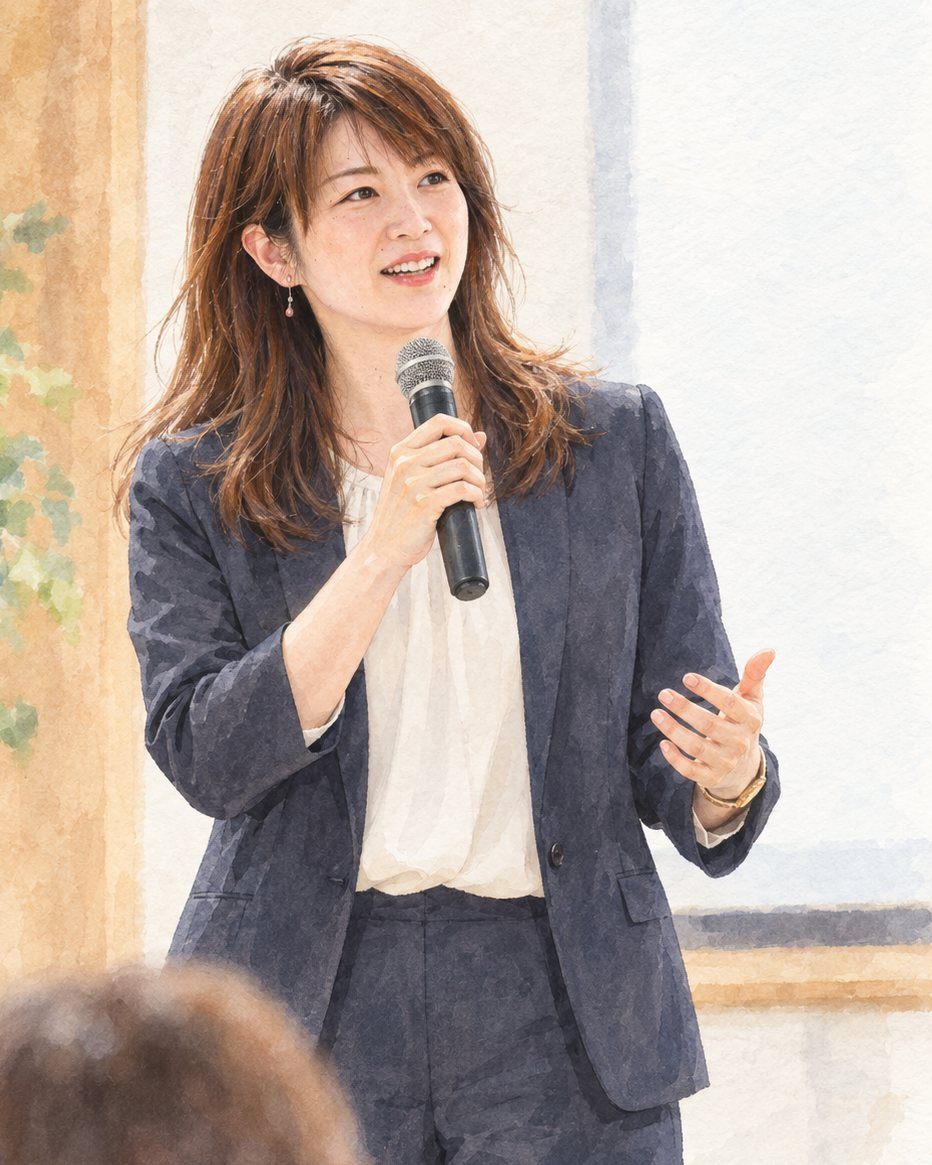
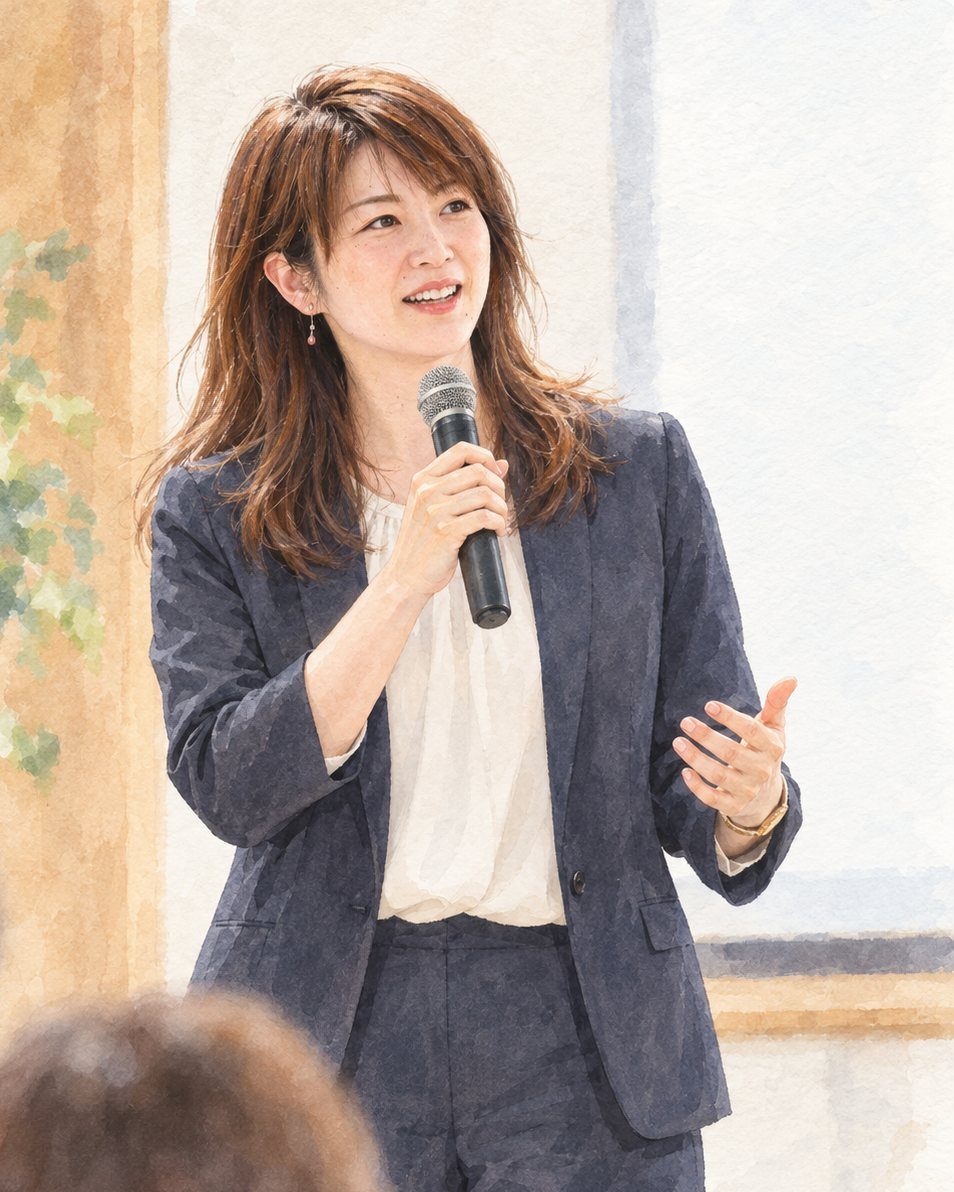
Add files via upload

Changed region(s): [[0.0, 0.0, 1.0, 1.0], [0.6534, 0.927, 0.6845, 0.9579], [0.2489, 0.9888, 0.28, 1.0]]

diff --git a/index.html b/index.html
@@ -146,7 +146,7 @@
     }
     .hero-media { position: relative; min-height: 100vh; }
     .hero-media .ph, .hero-media img { width: 100%; height: 100%; min-height: 100vh; object-fit: cover; }
-    #hero .ph-img { object-position: 50% 14%; }
+    #hero .ph-img { object-position: 50% 12%; }
     .hero-media-tag {
       position: absolute; left: -22px; bottom: 66px; z-index: 2;
       background: var(--card); color: var(--ink); padding: 9px 18px; border-radius: 999px;
@@ -154,8 +154,8 @@
       font-size: 12.5px; letter-spacing: 0.06em; transform: rotate(-3deg);
     }
     h1 {
-      font-size: clamp(30px, 5vw, 56px); font-weight: 700; color: var(--ink);
-      line-height: 1.42; letter-spacing: 0.02em; margin-bottom: 28px;
+      font-size: clamp(25px, 4vw, 44px); font-weight: 700; color: var(--ink);
+      line-height: 1.5; letter-spacing: 0.01em; margin-bottom: 28px;
     }
     h1 .accent { color: var(--accent); }
     /* 隙: メインコピー下の、手書き風のゆれた下線 */
@@ -201,9 +201,10 @@
     }
     /* 隙: 2番目のカードだけ少し下げて、整いすぎを外す */
     .flow-step:nth-child(2) { transform: translateY(26px); }
-    .flow-ill { margin-bottom: 20px; }
-    .flow-ill svg { width: 84px; height: 84px; display: block; }
-    .flow-no { font-family: 'Zen Maru Gothic', sans-serif; font-weight: 700; font-size: 13px; letter-spacing: 0.12em; color: var(--accent); display: block; margin-bottom: 8px; }
+    .flow-no { font-family: 'Zen Maru Gothic', sans-serif; font-weight: 700; font-size: 13px; letter-spacing: 0.12em; color: var(--accent); display: block; margin-bottom: 12px; }
+    .flow-head { display: flex; align-items: center; gap: 14px; margin-bottom: 12px; }
+    .flow-ill { flex: 0 0 auto; }
+    .flow-ill svg { width: 50px; height: 50px; display: block; }
     .flow-num {
       font-family: 'Zen Maru Gothic', sans-serif; font-weight: 700; font-size: 15px;
       width: 40px; height: 40px; border-radius: 50%;
@@ -211,14 +212,14 @@
       display: flex; align-items: center; justify-content: center; margin-bottom: 20px;
       transform: rotate(-4deg);
     }
-    .flow-title { font-size: 19px; font-weight: 700; color: var(--ink); margin-bottom: 12px; letter-spacing: 0.03em; }
+    .flow-title { font-size: 19px; font-weight: 700; color: var(--ink); margin-bottom: 0; letter-spacing: 0.03em; }
     .flow-text { font-size: 14px; line-height: 1.95; color: var(--ink-2); }
     .flow-arrow { display: none; }
 
     /* ===== PHOTO BAND（横長ビジュアルの抑揚）===== */
     .photo-band { padding: 0; position: relative; height: 48vh; min-height: 320px; overflow: hidden; }
     .photo-band .ph, .photo-band img { width: 100%; height: 100%; object-fit: cover; }
-    .photo-band::after { content: ''; position: absolute; inset: 0; background: linear-gradient(90deg, rgba(35,32,27,0.28), rgba(35,32,27,0) 55%); pointer-events: none; }
+    .photo-band::after { content: none; }
     .band-cap { position: absolute; left: 8%; bottom: 44px; z-index: 2; }
     .band-cap p { display: inline-block; background: rgba(35,32,27,0.55); color: #fff; padding: 12px 22px; border-radius: 999px; font-size: clamp(16px, 2vw, 24px); font-weight: 700; letter-spacing: 0.03em; }
 
@@ -292,7 +293,7 @@
     .ig-card__inner { display: flex; align-items: center; gap: 18px; background: #fff; border-radius: 15px; padding: 20px 24px; width: 100%; }
     .ig-avatar { flex: 0 0 auto; width: 54px; height: 54px; border-radius: 50%; background: var(--accent-wash); display: flex; align-items: center; justify-content: center; }
     .ig-card__body { flex: 1 1 auto; display: flex; flex-direction: column; }
-    .ig-card__name { font-size: 16px; font-weight: 700; line-height: 1.4; color: var(--ink); }
+    .ig-card__name { font-size: 16px; font-weight: 700; line-height: 1.4; color: var(--ink); white-space: nowrap; }
     .ig-card__handle { font-size: 13px; letter-spacing: .03em; color: var(--muted); }
     .ig-card__btn { flex: 0 0 auto; font-size: 12.5px; letter-spacing: .04em; color: #fff; background: linear-gradient(45deg, #F58529, #DD2A7B 50%, #8134AF 80%, #515BD4); border-radius: 999px; padding: 8px 15px; white-space: nowrap; }
 
@@ -362,6 +363,9 @@
     .footer-links a:hover { color: #fff; }
     .copyright { text-align: center; font-size: 11.5px; letter-spacing: 0.06em; padding-top: 28px; border-top: 1px solid rgba(247,242,232,0.12); color: rgba(247,242,232,0.35); }
 
+    /* 日本語の行末で最後の一文字だけが次行に落ちるのを抑制 */
+    .lead, .stance-text, .flow-text, .svc-desc, .about-text, .hero-sub, .video-lead, .form-note, .want-item { text-wrap: pretty; }
+
     /* ===== FADE（動きは小さく静かに）===== */
     .fade { opacity: 0; transform: translateY(16px); transition: opacity .7s ease, transform .7s ease; }
     .fade.on { opacity: 1; transform: none; }
@@ -386,8 +390,8 @@
       .hero-left { padding: 104px 22px 36px; }
       .hero-left::before { display: none; }
       .hero-media { min-height: 0; order: -1; }
-      .hero-media .ph, .hero-media img { min-height: 0; height: 54vh; }
-      .hero-media-tag { left: 14px; bottom: 16px; }
+      .hero-media .ph, .hero-media img { min-height: 0; height: 52vh; }
+      #hero .ph-img { object-position: 50% 6%; }
       .ww-top { grid-template-columns: 1fr; gap: 24px; }
       .ww-media .ph, .ww-media img { aspect-ratio: 16/10; }
       .photo-band { height: 40vh; min-height: 240px; }
@@ -398,6 +402,8 @@
       .svc-row:nth-child(even) .svc-media { order: 0; }
       .svc-media .ph, .svc-media img { aspect-ratio: 16/10; }
       .mc-works { grid-template-columns: 1fr; }
+      .ig-card__inner { flex-wrap: wrap; }
+      .ig-card__btn { margin-left: auto; }
       .panel { padding: 26px 22px; }
       .media-block { grid-template-columns: 1fr; gap: 26px; }
       .video-grid { grid-template-columns: 1fr; gap: 22px; }
@@ -462,7 +468,6 @@
       <img class="ph-img" src="hero.jpg" alt="登壇してマイクを持ち、聴衆に語りかける様子" onerror="this.style.display='none'">
       <span>メインビジュアル</span>
     </figure>
-    <span class="hero-media-tag">現場にて。</span>
   </div>
 </section>
 
@@ -483,7 +488,6 @@
           <img class="ph-img" src="ww.jpg" alt="テーブルを囲んで対話する打ち合わせの様子" onerror="this.style.display='none'">
           <span>打ち合わせ・対話</span>
         </figure>
-        <span class="ww-media-tag">まず、聴く。</span>
       </div>
     </div>
     <div class="want-list">
@@ -516,42 +520,48 @@
     </div>
     <div class="flow fade">
       <div class="flow-step">
-        <div class="flow-ill">
-          <svg viewBox="0 0 88 88" fill="none" xmlns="http://www.w3.org/2000/svg">
-            <circle cx="37" cy="37" r="21" fill="#FAEDE7" stroke="#CF4A32" stroke-width="2.4"/>
-            <line x1="52" y1="52" x2="72" y2="72" stroke="#CF4A32" stroke-width="2.6" stroke-linecap="round"/>
-            <path d="M37 27l2.8 6.8L46.5 37l-6.7 3.2L37 47l-2.8-6.8L27.5 37l6.7-3.2z" fill="#CF4A32"/>
-          </svg>
-        </div>
         <span class="flow-no maru">01</span>
-        <h3 class="flow-title">見つける</h3>
+        <div class="flow-head">
+          <div class="flow-ill">
+            <svg viewBox="0 0 88 88" fill="none" xmlns="http://www.w3.org/2000/svg">
+              <circle cx="37" cy="37" r="21" fill="#FAEDE7" stroke="#CF4A32" stroke-width="2.4"/>
+              <line x1="52" y1="52" x2="72" y2="72" stroke="#CF4A32" stroke-width="2.6" stroke-linecap="round"/>
+              <path d="M37 27l2.8 6.8L46.5 37l-6.7 3.2L37 47l-2.8-6.8L27.5 37l6.7-3.2z" fill="#CF4A32"/>
+            </svg>
+          </div>
+          <h3 class="flow-title">見つける</h3>
+        </div>
         <p class="flow-text">対話を重ね、人や企業がすでに持っている魅力・経験・強みを掘り起こします。</p>
       </div>
       <div class="flow-step">
-        <div class="flow-ill">
-          <svg viewBox="0 0 88 88" fill="none" xmlns="http://www.w3.org/2000/svg">
-            <path d="M14 20h60a7 7 0 017 7v22a7 7 0 01-7 7H41l-15 13V56H14a7 7 0 01-7-7V27a7 7 0 017-7z" fill="#FAEDE7" stroke="#CF4A32" stroke-width="2.4" stroke-linejoin="round"/>
-            <line x1="22" y1="33" x2="62" y2="33" stroke="#CF4A32" stroke-width="2.4" stroke-linecap="round"/>
-            <line x1="22" y1="43" x2="50" y2="43" stroke="#CF4A32" stroke-width="2.4" stroke-linecap="round"/>
-          </svg>
-        </div>
         <span class="flow-no maru">02</span>
-        <h3 class="flow-title">伝わる形にする</h3>
+        <div class="flow-head">
+          <div class="flow-ill">
+            <svg viewBox="0 0 88 88" fill="none" xmlns="http://www.w3.org/2000/svg">
+              <path d="M14 20h60a7 7 0 017 7v22a7 7 0 01-7 7H41l-15 13V56H14a7 7 0 01-7-7V27a7 7 0 017-7z" fill="#FAEDE7" stroke="#CF4A32" stroke-width="2.4" stroke-linejoin="round"/>
+              <line x1="22" y1="33" x2="62" y2="33" stroke="#CF4A32" stroke-width="2.4" stroke-linecap="round"/>
+              <line x1="22" y1="43" x2="50" y2="43" stroke="#CF4A32" stroke-width="2.4" stroke-linecap="round"/>
+            </svg>
+          </div>
+          <h3 class="flow-title">伝わる形にする</h3>
+        </div>
         <p class="flow-text">言葉、写真、映像、場づくり。その価値に合う方法を選び、相手に届く表現へ整えます。</p>
       </div>
       <div class="flow-step">
-        <div class="flow-ill">
-          <svg viewBox="0 0 88 88" fill="none" xmlns="http://www.w3.org/2000/svg">
-            <line x1="24" y1="28" x2="64" y2="22" stroke="#CF4A32" stroke-width="2.4"/>
-            <line x1="24" y1="28" x2="44" y2="62" stroke="#CF4A32" stroke-width="2.4"/>
-            <line x1="64" y1="22" x2="44" y2="62" stroke="#CF4A32" stroke-width="2.4"/>
-            <circle cx="24" cy="28" r="9" fill="#FAEDE7" stroke="#CF4A32" stroke-width="2.4"/>
-            <circle cx="64" cy="22" r="9" fill="#FAEDE7" stroke="#CF4A32" stroke-width="2.4"/>
-            <circle cx="44" cy="63" r="9" fill="#FAEDE7" stroke="#CF4A32" stroke-width="2.4"/>
-          </svg>
-        </div>
         <span class="flow-no maru">03</span>
-        <h3 class="flow-title">社会とつなぐ</h3>
+        <div class="flow-head">
+          <div class="flow-ill">
+            <svg viewBox="0 0 88 88" fill="none" xmlns="http://www.w3.org/2000/svg">
+              <line x1="24" y1="28" x2="64" y2="22" stroke="#CF4A32" stroke-width="2.4"/>
+              <line x1="24" y1="28" x2="44" y2="62" stroke="#CF4A32" stroke-width="2.4"/>
+              <line x1="64" y1="22" x2="44" y2="62" stroke="#CF4A32" stroke-width="2.4"/>
+              <circle cx="24" cy="28" r="9" fill="#FAEDE7" stroke="#CF4A32" stroke-width="2.4"/>
+              <circle cx="64" cy="22" r="9" fill="#FAEDE7" stroke="#CF4A32" stroke-width="2.4"/>
+              <circle cx="44" cy="63" r="9" fill="#FAEDE7" stroke="#CF4A32" stroke-width="2.4"/>
+            </svg>
+          </div>
+          <h3 class="flow-title">社会とつなぐ</h3>
+        </div>
         <p class="flow-text">発信や運営を続けられる形に整え、人・企業・地域のあいだに新しい接点をつくります。</p>
       </div>
     </div>
@@ -564,7 +574,6 @@
     <img class="ph-img" src="band.jpg" alt="式典で登壇し、聴衆の前で話す様子" onerror="this.style.display='none'">
     <span>現場写真</span>
   </figure>
-  <div class="band-cap"><p>その場に立ち、言葉を届ける。</p></div>
 </section>
 
 <!-- ===== SERVICES ===== -->
@@ -599,7 +608,7 @@
           <div class="svc-head"><span class="svc-no maru">03</span><h3 class="svc-name">事務局・プロジェクト運営</h3></div>
           <p class="svc-desc">関係者との調整や情報整理など、活動が滞りなく進むための実務と対話を支えます。</p>
           <div class="svc-tags"><span class="tag">事務局運営</span><span class="tag">進行管理</span><span class="tag">関係者調整</span></div>
-          <p class="svc-work"><span class="svc-work-label">実績</span><span>奈良綺麗プロジェクト</span></p>
+          <p class="svc-work"><span class="svc-work-label">実績</span><a href="https://nara-beauty.jp/" target="_blank" rel="noopener">奈良綺麗プロジェクト</a></p>
         </div>
       </article>
       <article class="svc-row">
@@ -608,7 +617,7 @@
           <div class="svc-head"><span class="svc-no maru">04</span><h3 class="svc-name">研修・組織づくり</h3></div>
           <p class="svc-desc">経営者の想いや組織の価値を、社員一人ひとりが自分の言葉で語れる状態を目指します。</p>
           <div class="svc-tags"><span class="tag">理念の言語化</span><span class="tag">発信研修</span><span class="tag">対話の場づくり</span></div>
-          <p class="svc-work"><span class="svc-work-label">実績</span><span>一般社団法人りょうしん塾「心のスポンジづくり」初級指導者認定</span></p>
+          <p class="svc-work"><span class="svc-work-label">実績</span><a href="https://ryoshinjuku.com/" target="_blank" rel="noopener">一般社団法人りょうしん塾「心のスポンジづくり」初級指導者認定</a></p>
         </div>
       </article>
       <article class="svc-row">
@@ -645,7 +654,7 @@
     <h2 class="stance-title">答えを渡すより、<br>知恵と経験を交換する。</h2>
     <p class="stance-text">
       私たちが大切にしているのは、一方的に答えを渡すことではありません。
-      対話のなかでお互いの知恵や経験を持ち寄り、その人・その会社の力が生きる伝え方とつながりを、一緒に見つけていきます。
+      対話のなかでお互いの知恵や経験を持ち寄り、その人・その会社の力が生きる伝え方とつながりを、一緒に見つけて<span style="white-space:nowrap;">いきます。</span>
     </p>
   </div>
 </section>
@@ -715,7 +724,7 @@
       <a class="ig-card" href="https://www.instagram.com/fleckkujime/" target="_blank" rel="noopener">
         <span class="ig-card__inner">
           <span class="ig-avatar">
-            <svg width="26" height="26" viewBox="0 0 24 24" fill="none"><rect x="3" y="3" width="18" height="18" rx="5" stroke="#CF4A32" stroke-width="1.6"/><circle cx="12" cy="12" r="4" stroke="#CF4A32" stroke-width="1.6"/><circle cx="17" cy="7" r="1.2" fill="#CF4A32"/></svg>
+            <img src="hukurou.png" alt="フレック九条 ロゴ" style="width:100%;height:100%;object-fit:contain;">
           </span>
           <span class="ig-card__body">
             <span class="ig-card__name">フレック九条</span>
@@ -727,20 +736,6 @@
     </div>
 
     <!-- 実績2列 -->
-    <div class="panel fade">
-      <p class="works-col-label maru">広報支援・研修</p>
-      <div class="works-cols">
-        <div>
-          <div class="work-item"><span class="work-year maru">—</span><span class="work-desc">スーパーマーケット SNS運用伴走支援</span></div>
-          <div class="work-item"><span class="work-year maru">—</span><span class="work-desc">スーパーマーケット EC販促支援</span></div>
-        </div>
-        <div>
-          <div class="work-item"><span class="work-year maru">—</span><span class="work-desc">ヘアブラシメーカー EC販促支援</span></div>
-          <div class="work-item"><span class="work-year maru">—</span><span class="work-desc">老舗企業 営業コミュニケーション研修</span></div>
-        </div>
-      </div>
-      <p style="font-size:12.5px;color:var(--muted);margin-top:20px;">司会・MCの実績は<a href="#services" style="color:var(--accent);text-decoration:underline;">サービス「司会・MC」</a >をご覧ください。</p>
-    </div>
   </div>
 </section>
 
@@ -748,7 +743,7 @@
 <section id="about">
   <div class="wrap fade">
     <span class="eyebrow maru">REPRESENTATIVE</span>
-    <h2 class="h-sec">代表ごあいさつ</h2>
+    <h2 class="h-sec">代表挨拶</h2>
     <div class="about-grid">
       <div class="about-photo">
         <img src="photo.jpg" alt="代表 谷 優子" onerror="this.style.display='none'; this.parentElement.classList.add('missing');">
